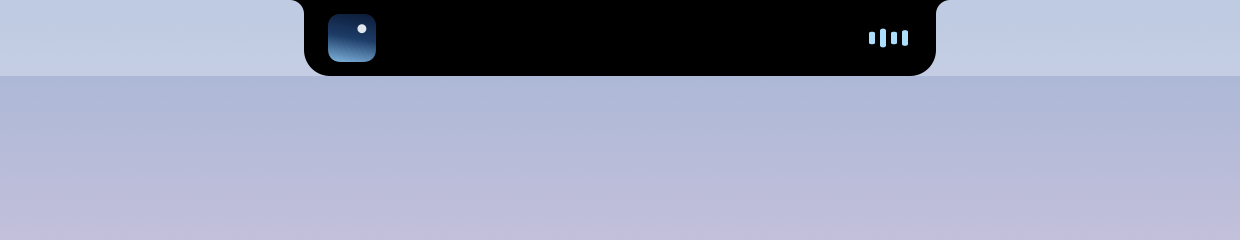
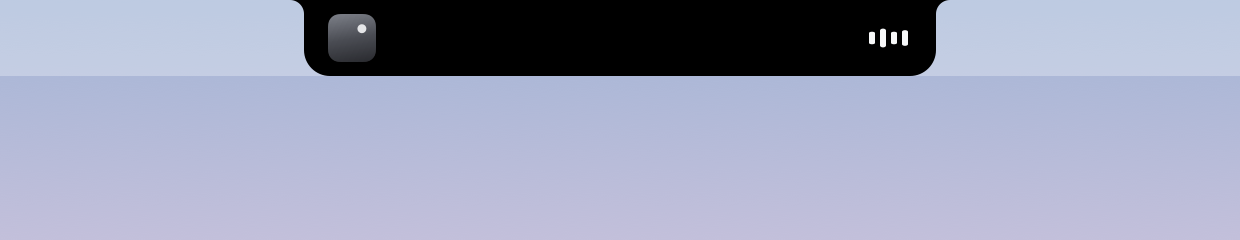
Graphite and silver demo covers; new README screenshots and animation
The demo tracks now use monochrome covers that match the icon, with a light grey equalizer. The README screenshots and the GIF were taken again from the demo mode.

Changed region(s): [[0.2452, 0.0583, 0.3065, 0.2625], [0.6742, 0.1167, 0.7355, 0.2042]]

diff --git a/Sources/Monobrow/Spotify/DemoBackend.swift b/Sources/Monobrow/Spotify/DemoBackend.swift
@@ -137,17 +137,18 @@ final class DemoBackend: PlayerBackend {
                 artwork: Artwork(image: cover(colors, angle: angle, dot: dot), accent: color(accent))
             )
         }
+        // Monochrome covers in graphite and silver, matching the icon; the equalizer is light grey.
         return [
-            item(1, tr("Северный ветер", "North Wind"), tr("Полярная ночь", "Polar Night"), 221, accent: 0x8ED8FF,
-                 colors: [0x5FA8DC, 0x0F2D57, 0x06142B], angle: 80, dot: 0xF3FAFF),
-            item(2, "Neon Arcade Dreams (Extended Night Drive Mix)", "Kairo Sun", 312, accent: 0xFF5FA2,
-                 colors: [0x12081F, 0x4B1162, 0xFF5FA2], angle: 90, dot: 0xFFD36E),
-            item(3, tr("Амбра", "Amber"), tr("Тёплые сны", "Warm Dreams"), 178, accent: 0xFFB24A,
-                 colors: [0x5E1F0A, 0xB4531A, 0xE89A3C], angle: 40, dot: 0xFFE7B8),
-            item(4, "Glasshouse", "Mira Okoye", 207, accent: 0x7CF3B4,
-                 colors: [0x0C3A2B, 0x1F9E66, 0x9BF0C5], angle: 120, dot: 0xFFFFFF),
-            item(5, "Low Tide", "Velvet Harbor", 245, accent: 0xB9A2FF,
-                 colors: [0x1C1640, 0x6C55B5, 0x2A2156], angle: 90, dot: 0xFFD6F0),
+            item(1, tr("Северный ветер", "North Wind"), tr("Полярная ночь", "Polar Night"), 221, accent: 0xF5F6F8,
+                 colors: [0x1E1F23, 0x3A3C43, 0x6A6E78], angle: 100, dot: 0xF2F3F5),
+            item(2, "Neon Arcade Dreams (Extended Night Drive Mix)", "Kairo Sun", 312, accent: 0xE4E6EA,
+                 colors: [0x858B96, 0xC3C7CE, 0xF4F5F7], angle: 100, dot: 0x2A2C31),
+            item(3, tr("Амбра", "Amber"), tr("Тёплые сны", "Warm Dreams"), 178, accent: 0xEDEEF1,
+                 colors: [0x0E0E10, 0x2B2C30, 0x55585F], angle: 50, dot: 0xD9DBE0),
+            item(4, "Glasshouse", "Mira Okoye", 207, accent: 0xEDEFF2,
+                 colors: [0x2A2C31, 0x5C6068, 0x9EA3AC], angle: 120, dot: 0xFFFFFF),
+            item(5, "Low Tide", "Velvet Harbor", 245, accent: 0xDADCE0,
+                 colors: [0x15161A, 0x34363C, 0x4A4D54], angle: 90, dot: 0xC9CCD2),
         ]
     }
 }
